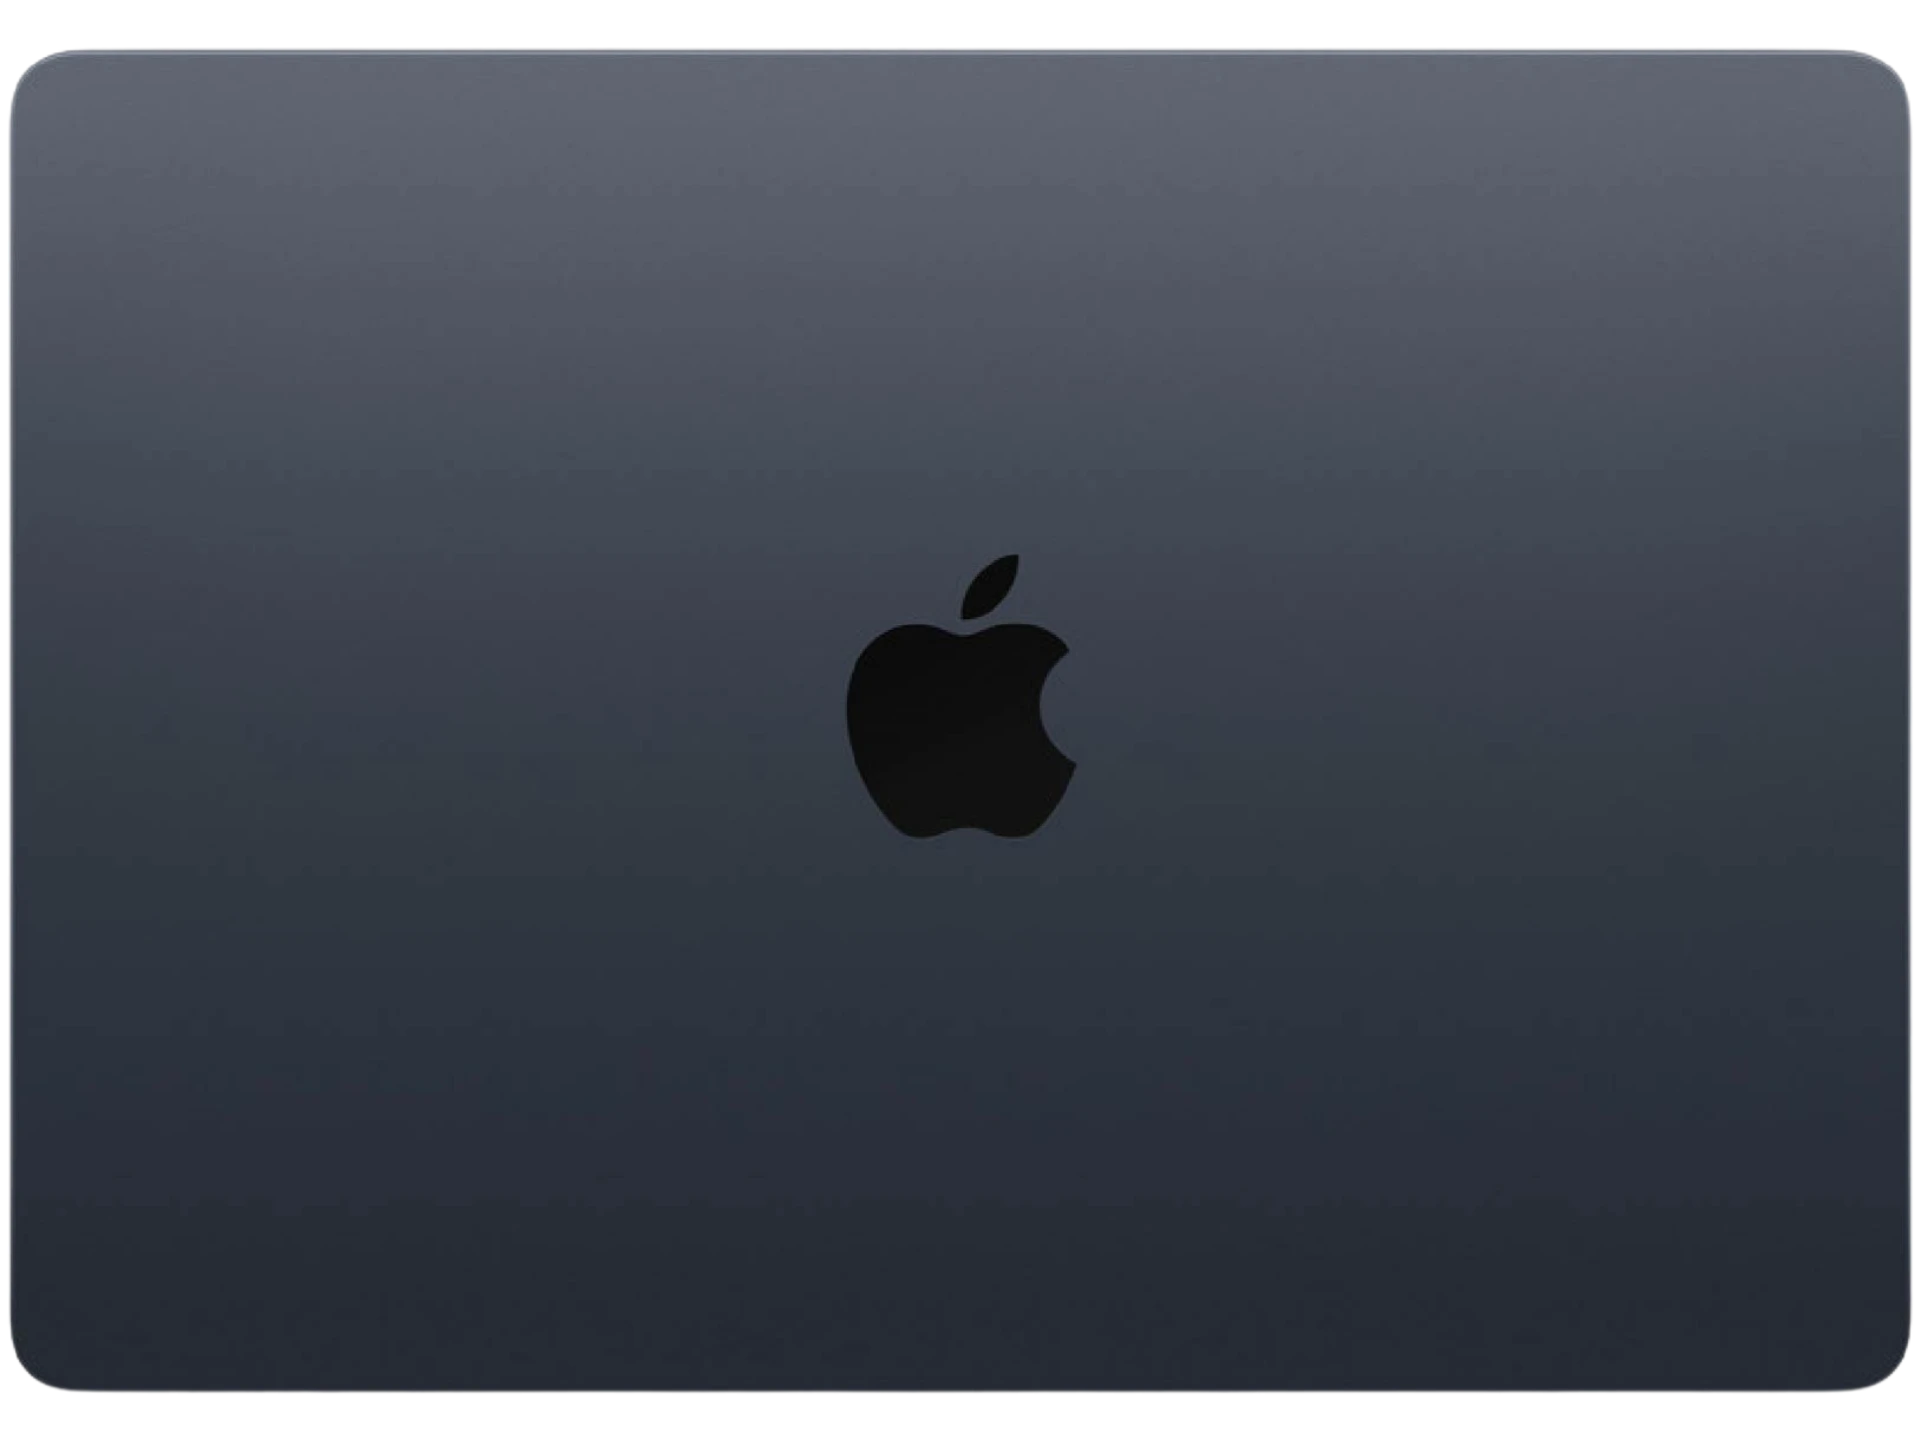
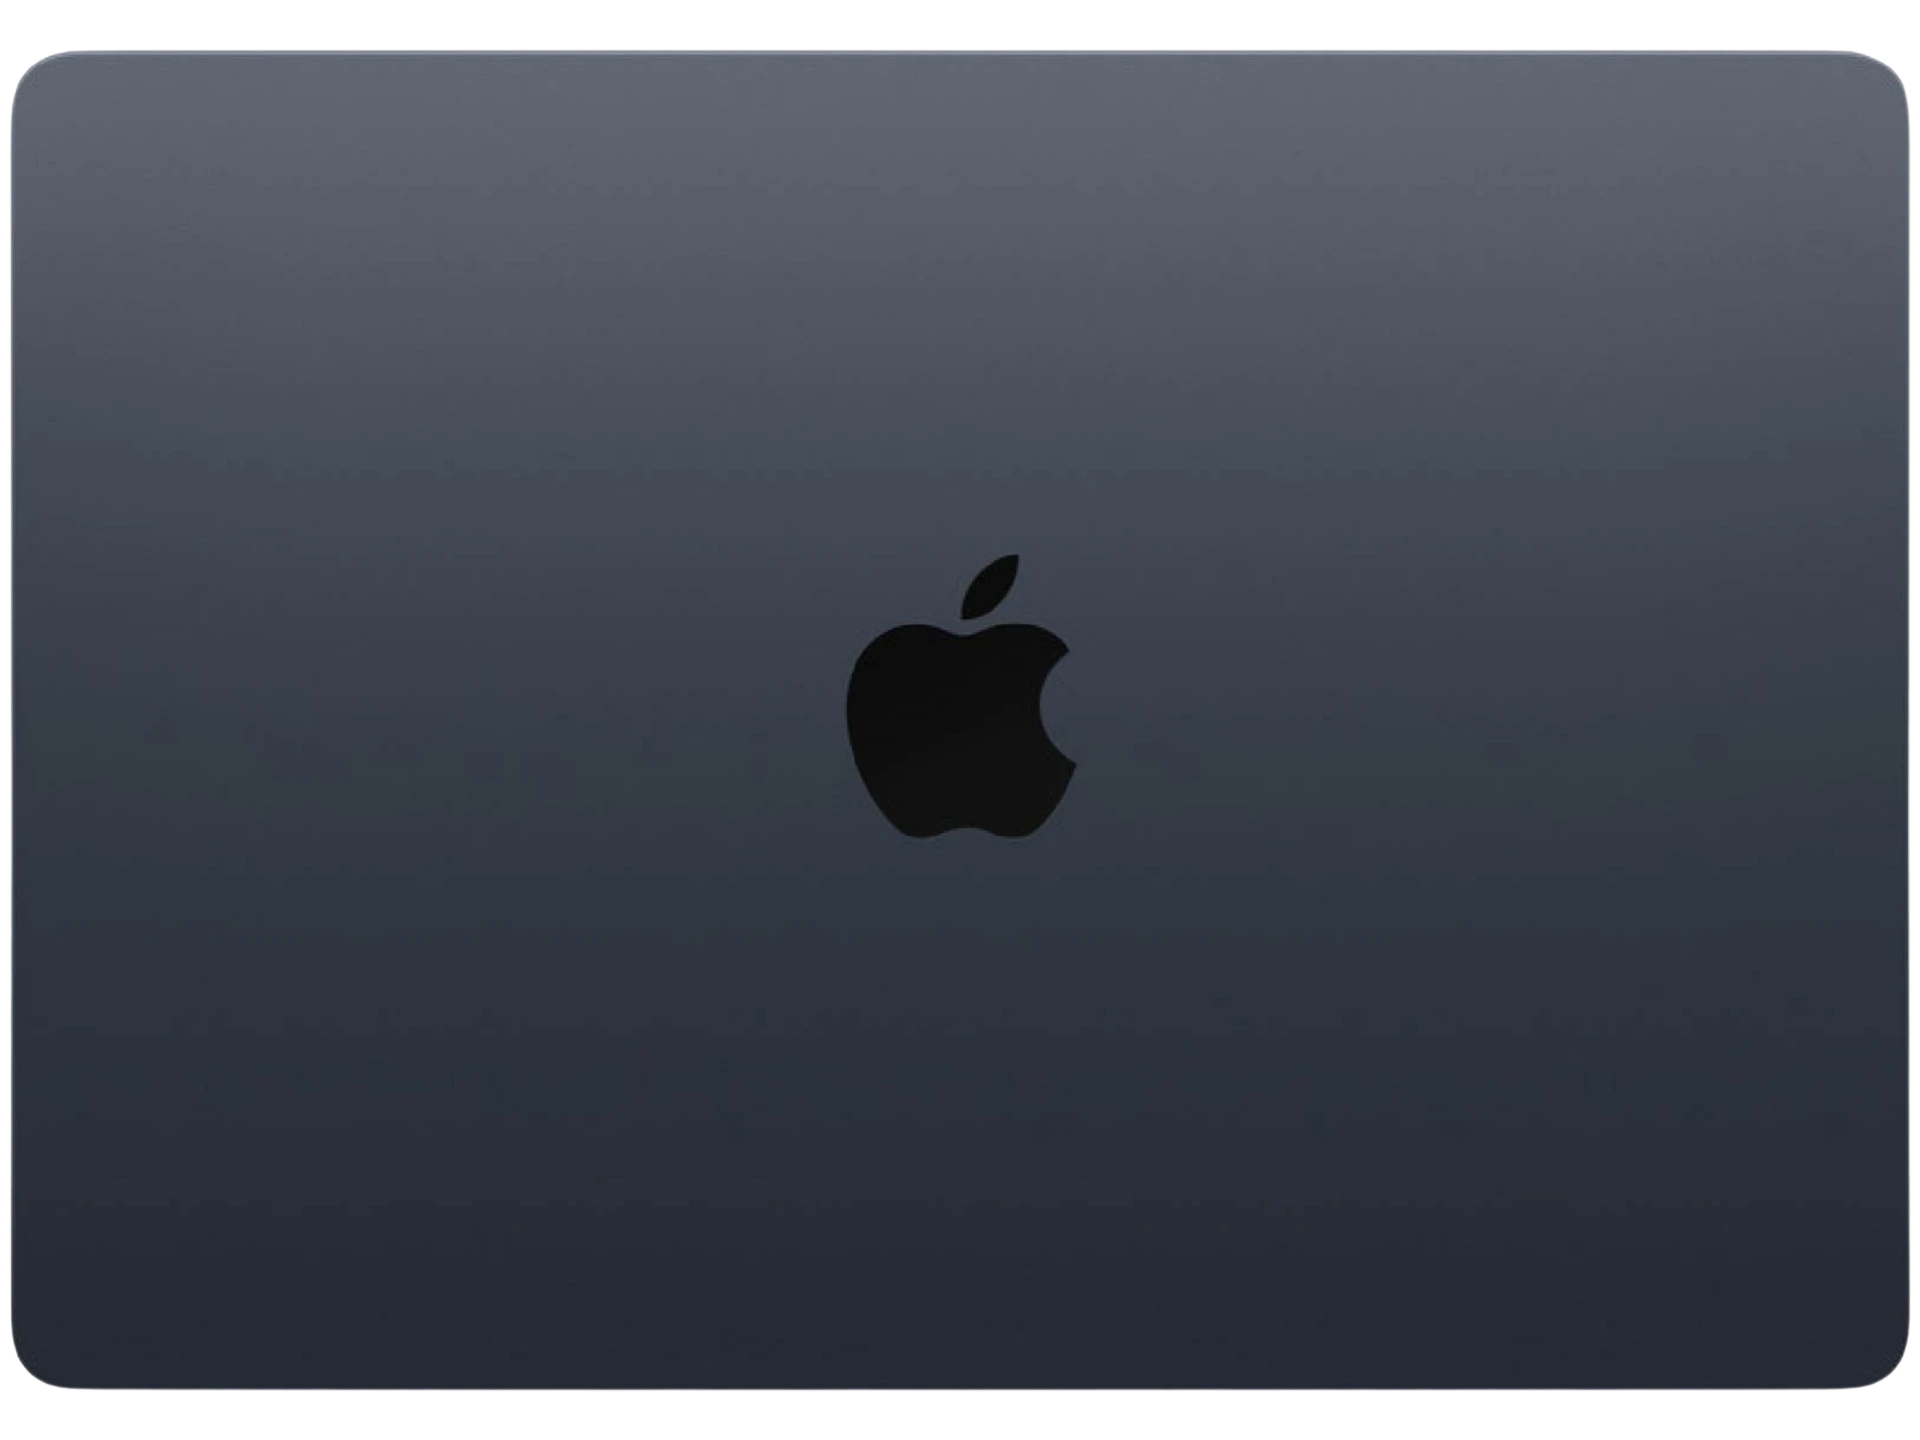
feat: contorno exacto de silueta de la mac sin bordes rectangulares y sombras alfa

Changed region(s): [[0.0312, 0.9375, 0.9688, 0.9688]]

diff --git a/src/components/mac/MacSurface.tsx b/src/components/mac/MacSurface.tsx
@@ -51,7 +51,10 @@ function Face({
               setCurrentSrc(fallbackImage);
             }
           }}
-          className="block h-auto w-full select-none rounded-2xl sm:rounded-3xl shadow-sm"
+          className="block h-auto w-full select-none"
+          style={{
+            filter: "drop-shadow(0 22px 30px rgba(0, 0, 0, 0.35)) drop-shadow(0 6px 12px rgba(0, 0, 0, 0.18))",
+          }}
         />
         {spots.map((spot) => {
           const taken = Boolean(spot.brand);
